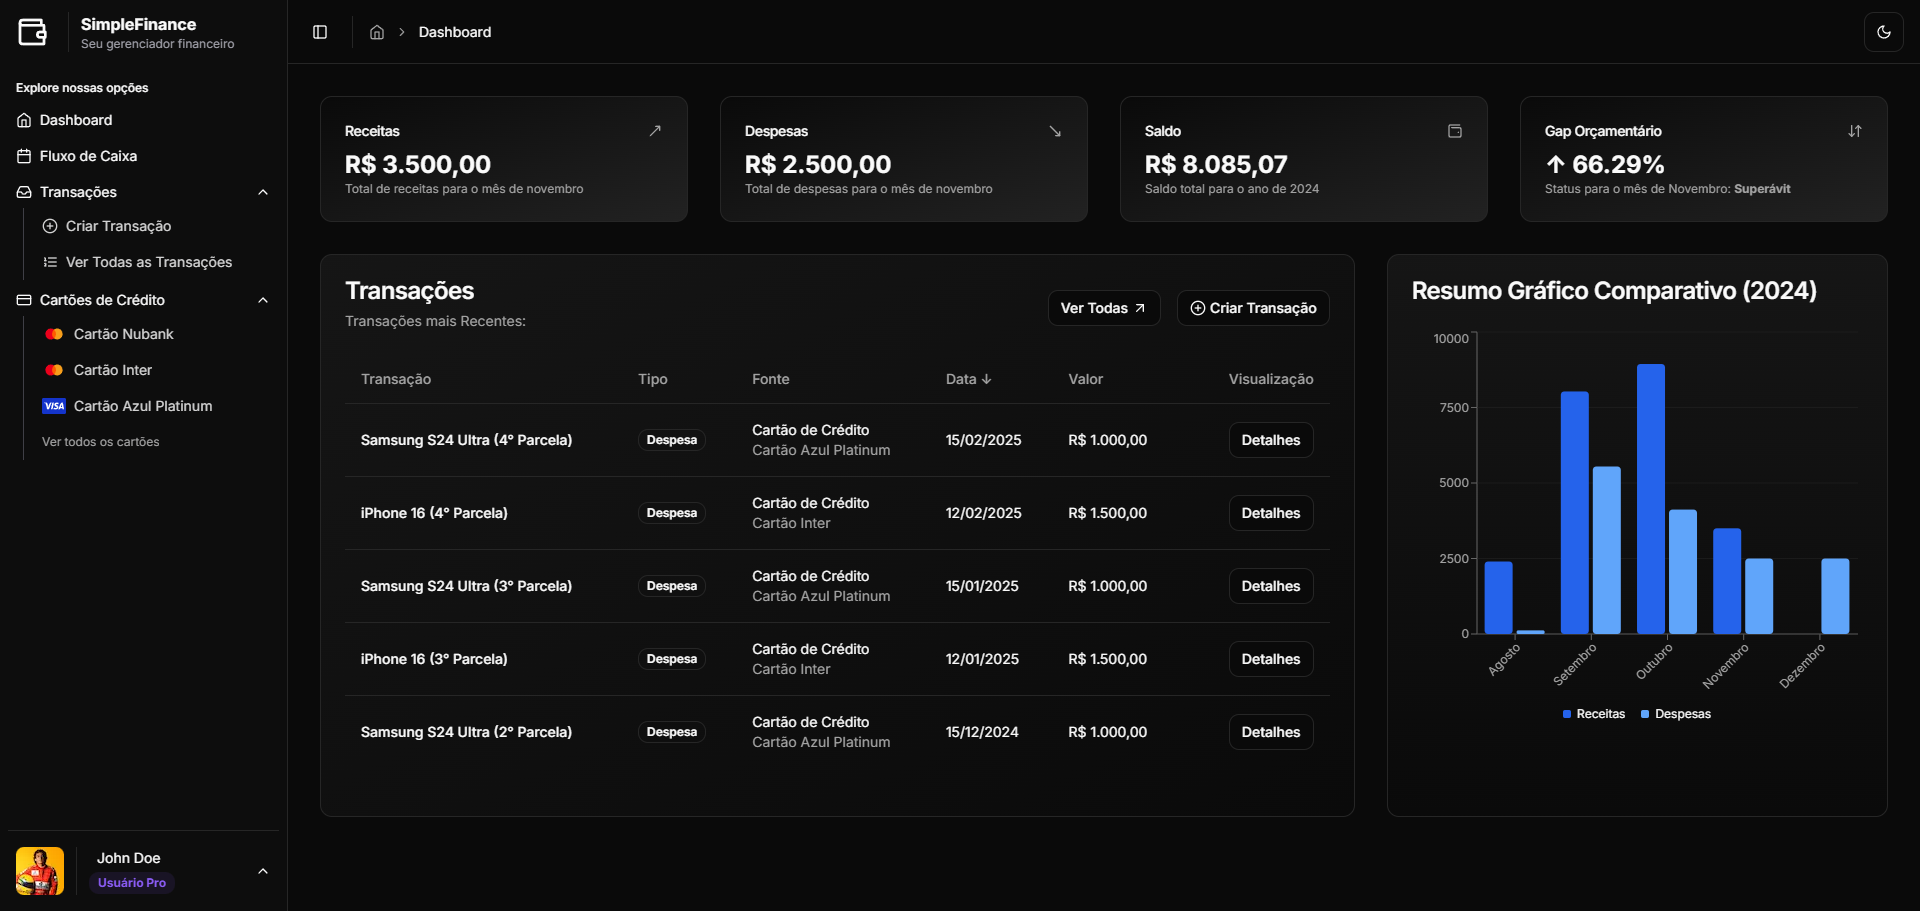
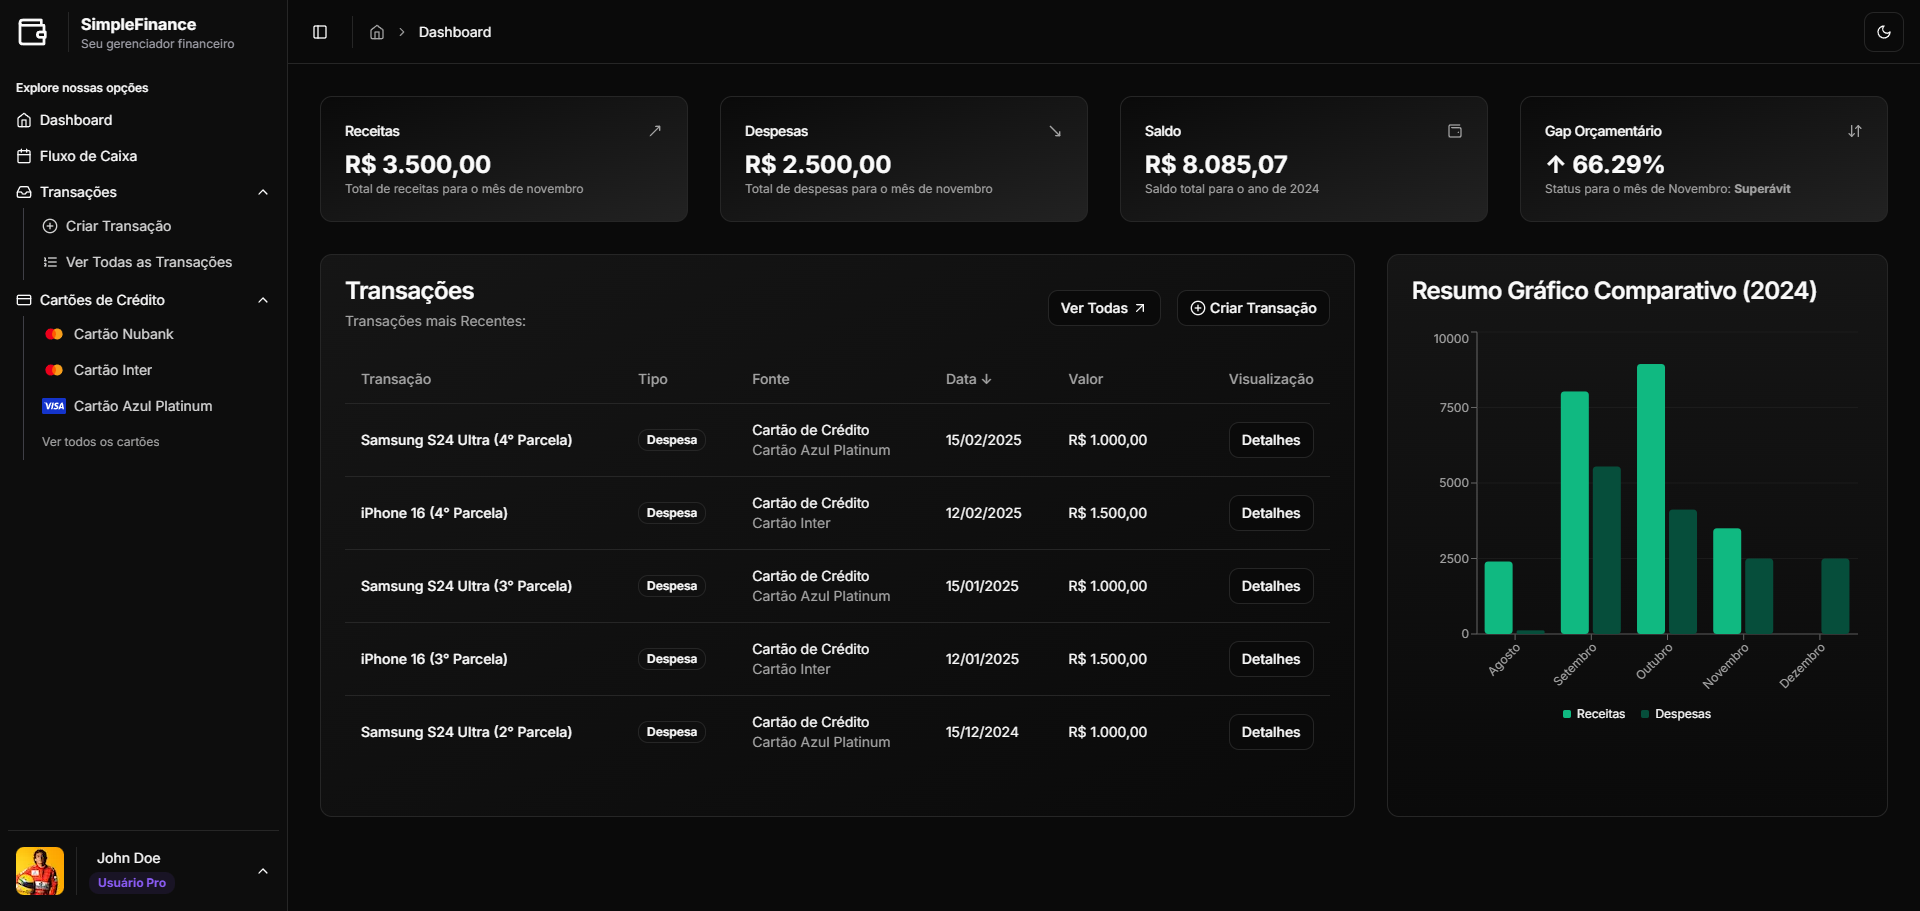
style(app): alterar o esquema de cores da aplicação

Changed region(s): [[0.75, 0.3996, 0.9688, 0.7069]]

diff --git a/app/components/landing/landing-components/AboutUs.tsx b/app/components/landing/landing-components/AboutUs.tsx
@@ -8,16 +8,16 @@ const AboutUs = () => {
     <section id="about" className="py-12 px-4">
       <div className="max-w-6xl mx-auto">
         <div className="text-center mb-12">
-          <BoxReveal boxColor="#2662d9" duration={0.5}>
+          <BoxReveal boxColor="#10b981" duration={0.5}>
             <p className="text-[3rem] font-bold text-white">
-              Quem<span className="text-[#2662d9]"> Somos</span>
+              Quem<span className="text-[#10b981]"> Somos</span>
             </p>
           </BoxReveal>
 
-          <BoxReveal boxColor="#2662d9" duration={0.5}>
+          <BoxReveal boxColor="#10b981" duration={0.5}>
             <h2 className="mt-2 text-[1.2rem] text-gray-300">
               Uma empresa focada em
-              <span className="text-[#2662d9]">
+              <span className="text-[#10b981]">
                 {" "}
                 transformar sua relação com o dinheiro
               </span>
@@ -27,7 +27,7 @@ const AboutUs = () => {
 
         {/* Grid de valores - Espaçamento reduzido */}
         <div className="grid grid-cols-1 md:grid-cols-2 gap-8 mb-12">
-          <BoxReveal boxColor="#2662d9" duration={0.5}>
+          <BoxReveal boxColor="#10b981" duration={0.5}>
             <div className="bg-gradient-to-br from-background/10 to-primary/10 p-8 rounded-xl border-[0.5px] border-zinc-800">
               <Shield className="w-12 h-12 text-white mb-4" />
               <h3 className="text-xl font-semibold text-white mb-3">
@@ -41,7 +41,7 @@ const AboutUs = () => {
             </div>
           </BoxReveal>
 
-          <BoxReveal boxColor="#2662d9" duration={0.5}>
+          <BoxReveal boxColor="#10b981" duration={0.5}>
             <div className="bg-gradient-to-br from-background/10 to-primary/10 p-8 rounded-xl border-[0.5px] border-zinc-800">
               <Users className="w-12 h-12 text-white mb-4" />
               <h3 className="text-xl font-semibold text-white mb-3">
@@ -55,7 +55,7 @@ const AboutUs = () => {
             </div>
           </BoxReveal>
 
-          <BoxReveal boxColor="#2662d9" duration={0.5}>
+          <BoxReveal boxColor="#10b981" duration={0.5}>
             <div className="bg-gradient-to-br from-background/10 to-primary/10 p-8 rounded-xl border-[0.5px] border-zinc-800">
               <TrendingUp className="w-12 h-12 text-white mb-4" />
               <h3 className="text-xl font-semibold text-white mb-3">
@@ -69,7 +69,7 @@ const AboutUs = () => {
             </div>
           </BoxReveal>
 
-          <BoxReveal boxColor="#2662d9" duration={0.5}>
+          <BoxReveal boxColor="#10b981" duration={0.5}>
             <div className="bg-gradient-to-br from-background/10 to-primary/10 p-8 rounded-xl border-[0.5px] border-zinc-800">
               <HeartHandshake className="w-12 h-12 text-white mb-4" />
               <h3 className="text-xl font-semibold text-white mb-3">
@@ -84,7 +84,7 @@ const AboutUs = () => {
         </div>
 
         <div className="flex justify-center mb-20">
-          <BoxReveal boxColor="#2662d9" duration={0.5}>
+          <BoxReveal boxColor="#10b981" duration={0.5}>
             <div className="grid grid-cols-3 md:grid-cols-3 gap-8 max-w-4xl">
               <div className="text-center">
                 <p className="text-4xl font-bold text-white">
@@ -112,7 +112,7 @@ const AboutUs = () => {
         </div>
 
         <div className="flex justify-center">
-          <BoxReveal boxColor="#2662d9" duration={0.5}>
+          <BoxReveal boxColor="#10b981" duration={0.5}>
             <div className="text-center max-w-3xl">
               <p className="text-xl text-gray-400 mb-6">
                 Junte-se a milhares de pessoas que já transformaram sua vida
@@ -120,7 +120,7 @@ const AboutUs = () => {
               </p>
               <Button
                 size="lg"
-                className="bg-[#2662d9] hover:bg-[#2662d9]/90 text-white px-8"
+                className="bg-[#10b981] hover:bg-[#10b981]/90 text-zinc-800 font-semibold px-8"
                 asChild
               >
                 <a href="#features">Conheça Nossos Recursos</a>

diff --git a/app/components/landing/landing-components/LandingHeader.tsx b/app/components/landing/landing-components/LandingHeader.tsx
@@ -23,26 +23,34 @@ const Header = () => {
   return (
     <nav className="fixed top-0 w-full z-[100]">
       <div className="absolute inset-0 bg-black/50 backdrop-blur-sm" />
-      
+
       <div className="relative">
         <div className="container mx-auto px-4 max-w-7xl">
           <div className="flex items-center justify-between h-20">
             <div className="flex items-center gap-3 flex-shrink-0 w-[200px] md:w-[220px]">
-              <Image src="/logo.svg" alt="SimpleFinance" width={48} height={48} priority />
-              <span className="text-white font-semibold text-xl whitespace-nowrap">SimpleFinance</span>
+              <Image
+                src="/logo.svg"
+                alt="SimpleFinance"
+                width={48}
+                height={48}
+                priority
+              />
+              <span className="text-white font-semibold text-xl whitespace-nowrap">
+                SimpleFinance
+              </span>
             </div>
 
             <div className="hidden md:flex items-center justify-center flex-1 mx-4">
               <div className="flex items-center gap-8">
-                <Link 
-                  href="" 
+                <Link
+                  href=""
                   onClick={scrollToFeatures}
                   className="text-gray-300 hover:text-white transition-colors"
                 >
                   O que fazemos
                 </Link>
-                <Link 
-                  href="" 
+                <Link
+                  href=""
                   onClick={scrollToAbout}
                   className="text-gray-300 hover:text-white transition-colors"
                 >
@@ -60,7 +68,7 @@ const Header = () => {
             <div className="flex items-center flex-shrink-0 w-[200px] md:w-[220px] justify-end">
               <Button
                 variant="default"
-                className="bg-[#2662d9] hover:bg-[#2662d9]/90 flex items-center gap-2 text-white transition-colors"
+                className="bg-[#10b981] hover:bg-[#047857]/90 flex items-center gap-2 text-zinc-800 transition-colors"
                 asChild
               >
                 <Link href="/signin">

diff --git a/app/components/landing/landing-components/LandingHero.tsx b/app/components/landing/landing-components/LandingHero.tsx
@@ -30,16 +30,16 @@ const LandingHero = () => {
       <div className="text-center space-y-6 max-w-4xl mx-auto mt-12">
         <Particles
           className="absolute inset-0 z-[50]"
-          quantity={100}
+          quantity={300}
           ease={80}
-          color="#2662d9"
+          color="#10b981"
           refresh
         />
 
         <div className="relative">
           <h1 className="relative z-[60] text-4xl md:text-6xl lg:text-7xl font-bold text-white">
             Planeje suas Finanças com{" "}
-            <span className="text-[#2662d9]">SimpleFinance</span>
+            <span className="text-[#10b981]">SimpleFinance</span>
           </h1>
           <AnimatedGridPattern
             numSquares={100}
@@ -62,12 +62,10 @@ const LandingHero = () => {
         <div className="flex flex-col sm:flex-row gap-4 justify-center pt-6 relative z-[60]">
           <Button
             size="lg"
-            className="bg-[#2662d9] hover:bg-[#2662d9]/90 text-white"
+            className="bg-[#10b981] hover:bg-[#047857]/90 text-zinc-800 font-semibold"
             asChild
           >
-            <Link href="/signup">
-              Vamos Começar?
-            </Link>
+            <Link href="/signup">Vamos Começar?</Link>
           </Button>
         </div>
 

diff --git a/app/components/landing/landing-components/LandingFeatures.tsx b/app/components/landing/landing-components/LandingFeatures.tsx
@@ -114,7 +114,7 @@ const LandingFeatures = () => {
       <div className="max-w-7xl mx-auto">
         <div className="text-center mb-16">
           <h2 className="text-3xl md:text-4xl font-bold text-white mb-4">
-            Recursos <span className="text-[#2662d9]">Eficientes</span>
+            Recursos <span className="text-[#10b981]">Eficientes</span>
           </h2>
           <p className="text-gray-400 max-w-2xl mx-auto">
             Ferramentas poderosas para simplificar sua gestão financeira
@@ -128,7 +128,7 @@ const LandingFeatures = () => {
         </BentoGrid>
       </div>
     </section>
-  );
+  )
 };
 
 export default LandingFeatures;

diff --git a/app/components/dashboard/graphs/charts/bar-chart.tsx b/app/components/dashboard/graphs/charts/bar-chart.tsx
@@ -16,8 +16,6 @@ import {
   ChartLegendContent,
 } from "@/app/components/ui/chart"
 import { useEffect, useState } from "react"
-import { Button } from "@/app/components/ui/button"
-import { PlusCircle } from "lucide-react"
 import CreateTransaction from "@/app/components/sidebar/CreateTransactions"
 
 const chartConfig = {
@@ -26,11 +24,11 @@ const chartConfig = {
   },
   income: {
     label: "Receitas",
-    color: "#2563eb",
+    color: "#10b981",
   },
   expense: {
     label: "Despesas",
-    color: "#60a5fa",
+    color: "#064e3b",
   },
 } satisfies ChartConfig
 

diff --git a/app/globals.css b/app/globals.css
@@ -52,7 +52,7 @@
     --border: 0 0% 14.9%;
     --input: 0 0% 14.9%;
     --ring: 0 0% 83.1%;
-    --chart-1: 220 70% 50%;
+    --chart-1: 22 70% 50%;
     --chart-2: 160 60% 45%;
     --chart-3: 30 80% 55%;
     --chart-4: 280 65% 60%;
